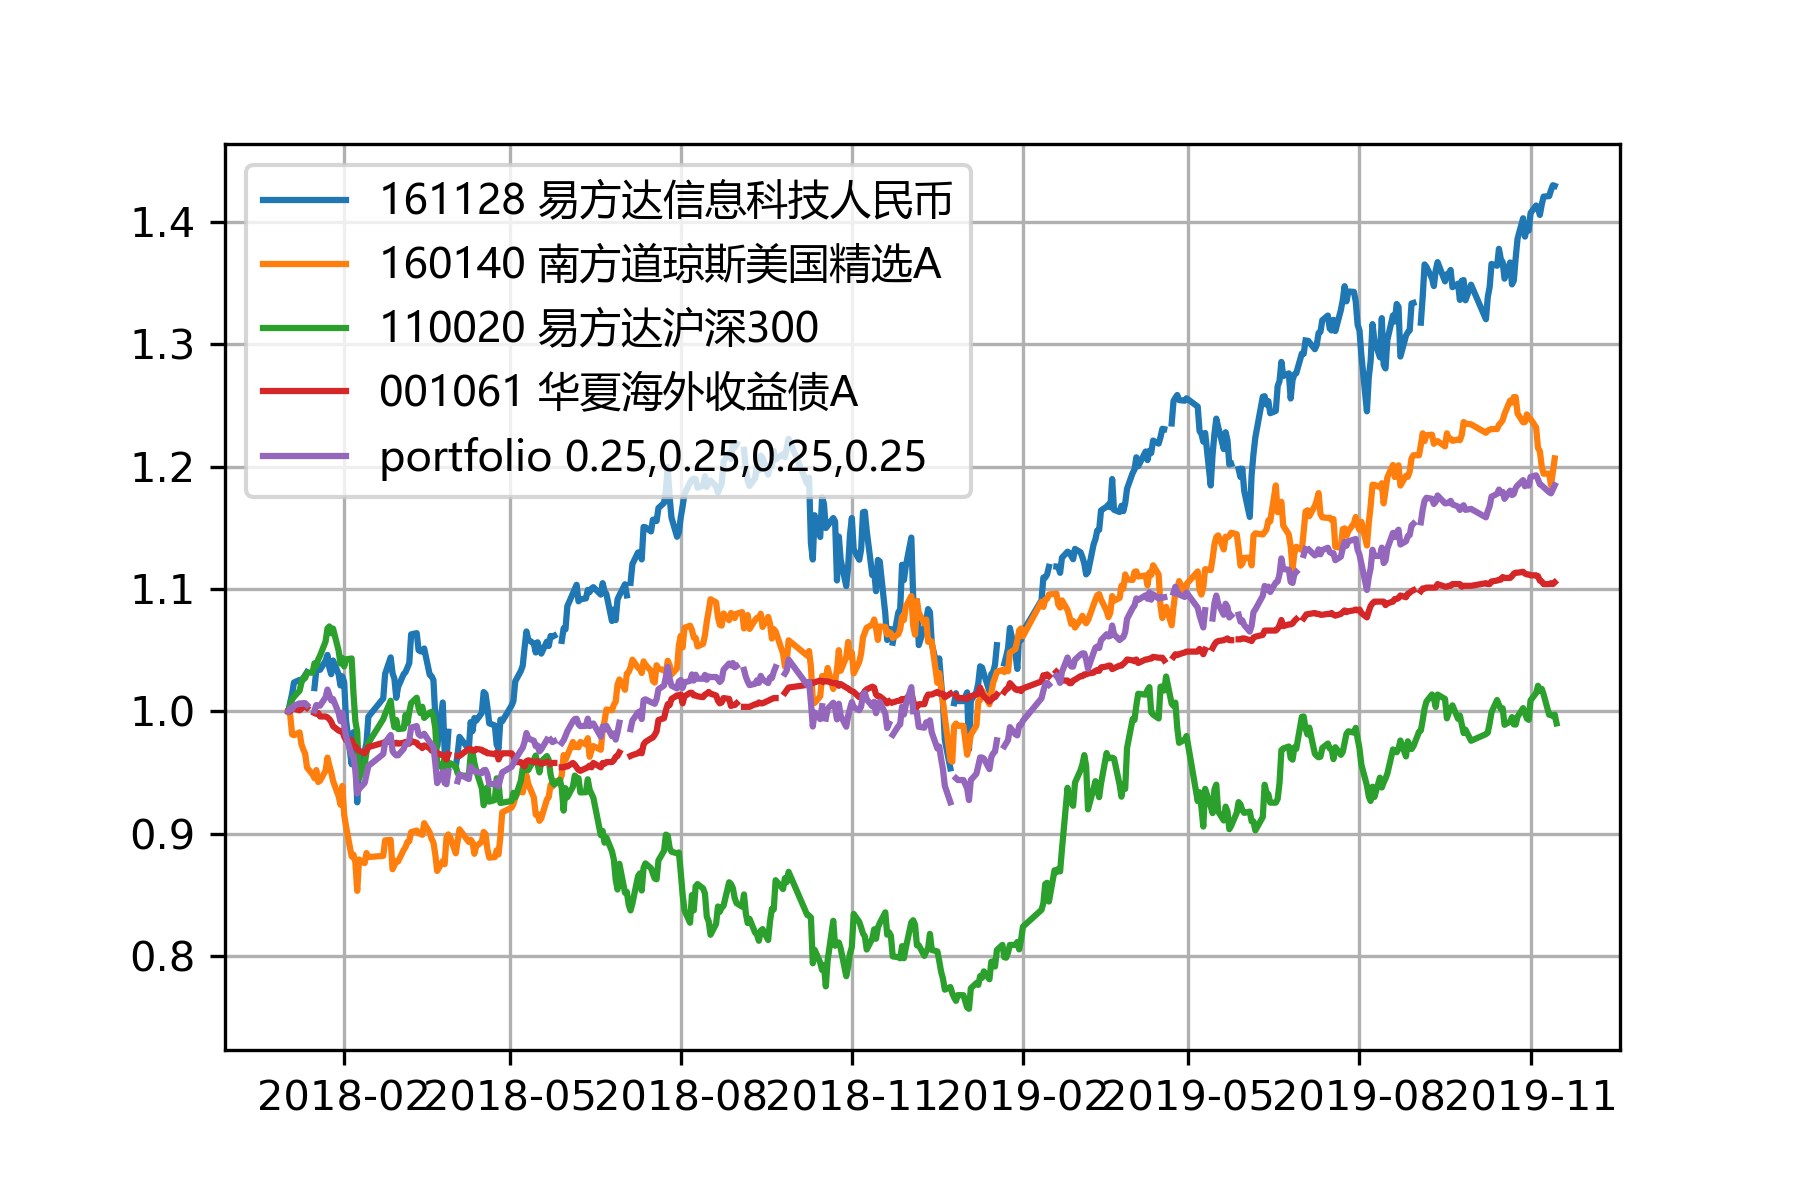
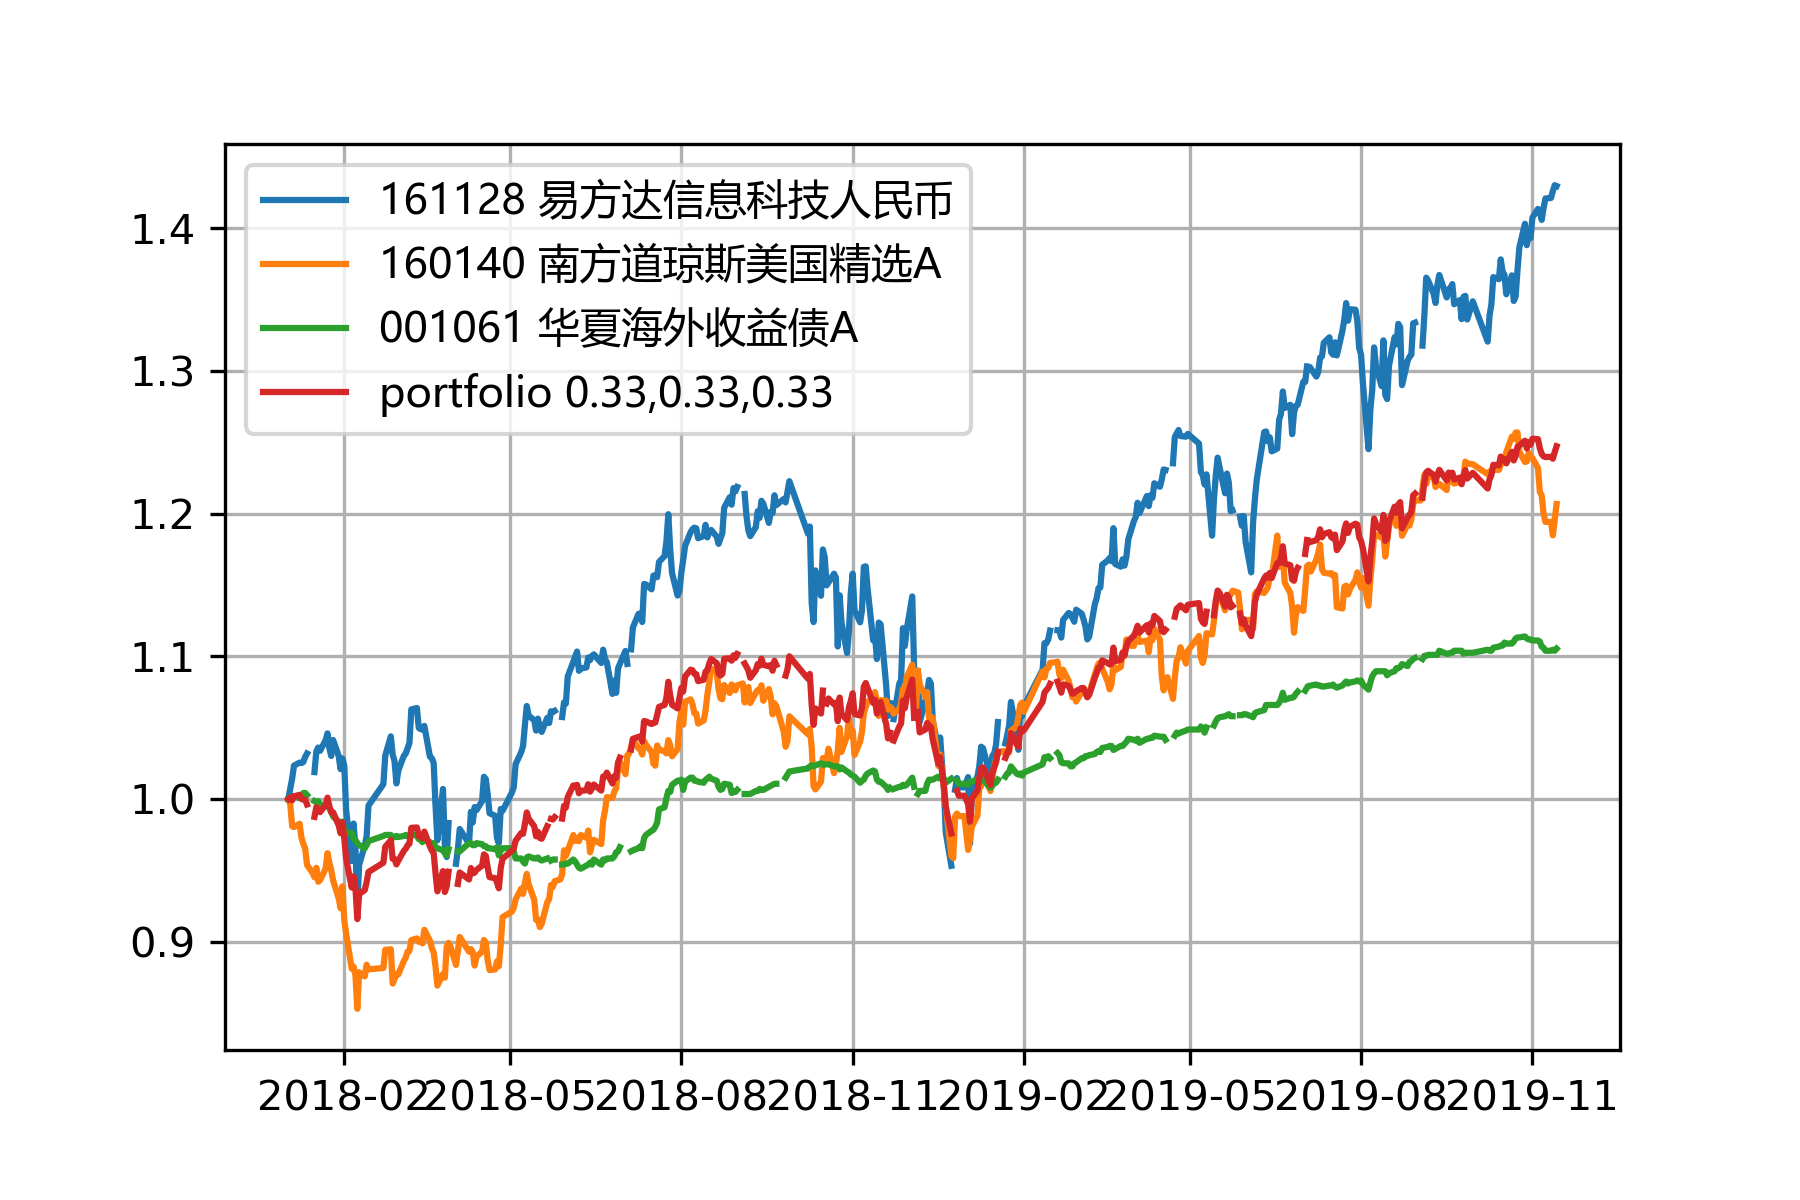
edit README.md and plots

diff --git a/funddata.py b/funddata.py
@@ -19,6 +19,7 @@ if __name__ == "__main__":
 
     startdate = '2018-01-01'
     enddate = '2019-12-31'
+#    codelist = ['161128', '160140', '001061']
     codelist = ['161128', '160140', '110020', '001061']
 
     # 0 for unit net value; 1 for accumulated net value

diff --git a/README.md b/README.md
@@ -5,10 +5,10 @@ The code was written in and tested with Python 3.6 (Anaconda 4.4.0).
 ## Usage
 #### Run the program with command line arguments of start date, end date and a list of fund codes
 #### Example:
-python funddata.py 2018-01-01 2019-12-31 161128 160140 110020 001061
+python funddata.py 2018-01-01 2019-12-31 161128 160140 001061
 
-## A plot of unit net values (fld_unitnetvalue)
-![Screenshot](fld_unitnetvalue.png)
-
-## A plot of accumulated net values (fld_netvalue)
+## A plot of accumulated net values (fld_netvalue) for 2018-01-01 2019-12-31 161128 160140 001061
 ![Screenshot](fld_netvalue.png)
+
+## A plot of accumulated net values (fld_netvalue) for 2018-01-01 2019-12-31 161128 160140 110020 001061
+![Screenshot](fld_netvalue_4.png)
